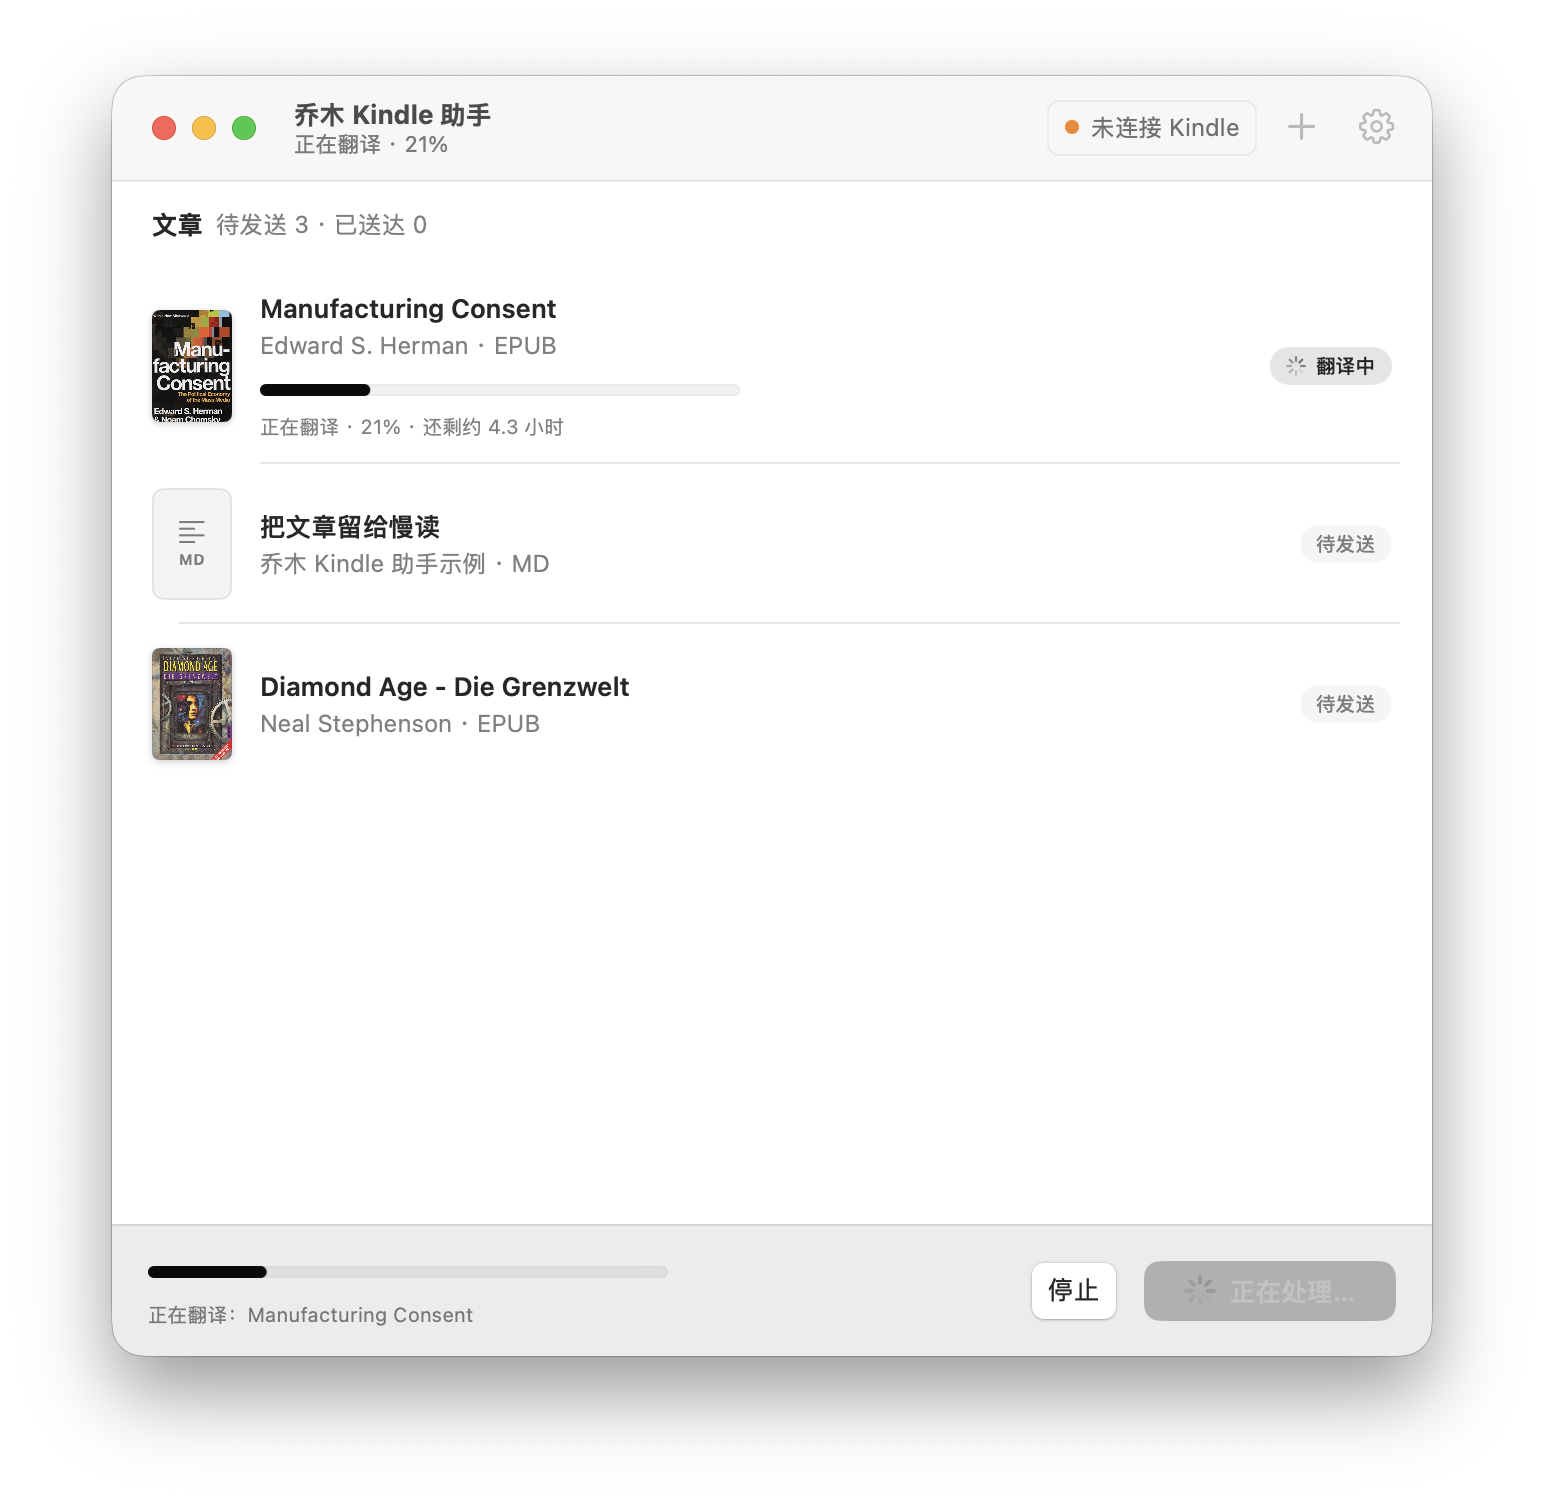
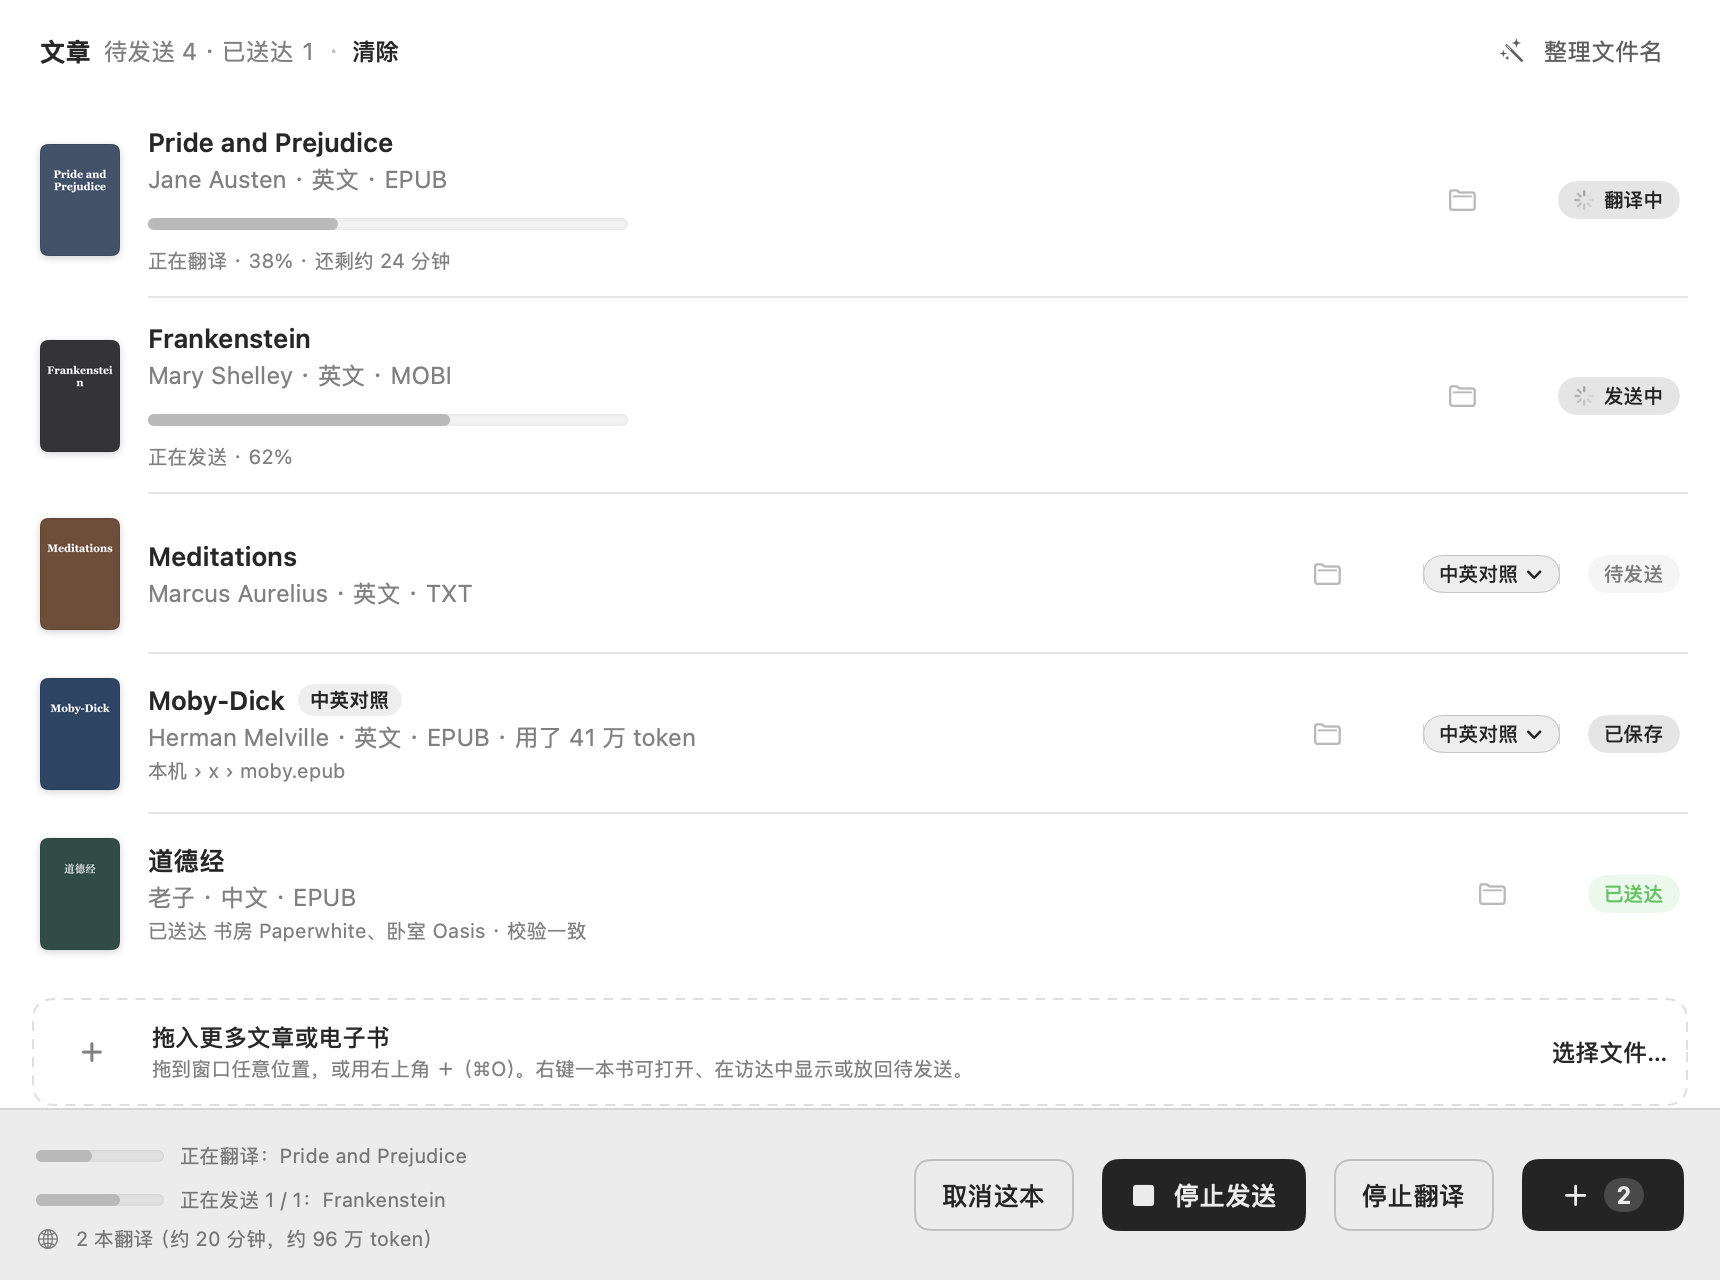
README: add an interface tour; fix the repeated language note

Changed region(s): [[0.0, 0.0312, 0.9948, 1.0], [0.8705, 0.0312, 0.9637, 0.0938], [0.6839, 0.0625, 0.8083, 0.0938]]

diff --git a/mac-app/Sources/KindlePush/Views/TranslationSettingsView.swift b/mac-app/Sources/KindlePush/Views/TranslationSettingsView.swift
@@ -121,11 +121,12 @@ struct TranslationSettingsView: View {
 
     private var languageNote: String {
         let name = Lang.name(store.targetLanguage)
-        let rule = t("拖入的书会在本机识别语言。不是\(name)的书会问你要不要翻译成\(name)；每本书行尾的标签都能改成任意语言，这里只是偏好。")
+        let rule = t("拖入的书会在本机识别语言。")
         let choice = store.foreignDefault == .ask
-            ? t("选了默认处理方式后，拖入时直接标好，不再在列表上方询问。")
-            : t("拖入时直接标为「\(t(store.foreignDefault.title))」；每本书行尾的标签仍可单独修改。")
-        return [rule, choice, t("改动立即生效。")].filter { !$0.isEmpty }.joined(separator: I18n.sentenceGap)
+            ? t("不是\(name)的书会在列表上方问你要不要翻译成\(name)；选了默认处理方式，就在拖入时直接标好。")
+            : t("不是\(name)的书拖入时直接标为「\(t(store.foreignDefault.title))」。")
+        let tag = t("每本书行尾的标签都能单独改，包括翻成哪种语言。")
+        return [rule, choice, tag, t("改动立即生效。")].filter { !$0.isEmpty }.joined(separator: I18n.sentenceGap)
     }
 
     private var qualityForm: some View {

diff --git a/README.md b/README.md
@@ -30,6 +30,27 @@
 - **简单的模型设置**：选服务、填 Key（或登录），再从自动读取的模型列表里选；支持 ChatGPT 账号登录、OpenRouter 和词元跳动浏览器授权。
 - **更快、更好的译文**：长章节自动拆段，默认 16 路并行（1–64 可调），费用不变；四种译文风格（自然流畅、忠实准确、文学润色、技术学术）；开译前自动整理全书人名和术语，也可以自己填术语表，各章译名统一。
 
+## 界面一览
+
+<table>
+<tr>
+<td width="50%"><img src="docs/assets/tour/kindles.png" alt="连接面板：勾选要发送的 Kindle，显示在线状态和地址"></td>
+<td width="50%"><img src="docs/assets/tour/settings-language.png" alt="设置 › 语言：偏好翻译语言、外文书默认处理方式、界面语言"></td>
+</tr>
+<tr>
+<td><b>发给几台 Kindle</b><br>连接面板里勾选，每本书发给勾选的每一台；不在线的那台之后可以单独补发。</td>
+<td><b>语言</b><br>外文书拖入时自动识别，按这里的偏好标成「中英对照」或「仅中文」；界面可选中文或英文。</td>
+</tr>
+<tr>
+<td><img src="docs/assets/tour/settings-service.png" alt="设置 › 翻译服务：选服务、填 API Key、选模型、翻译组件状态"></td>
+<td><img src="docs/assets/tour/settings-quality.png" alt="设置 › 质量与速度：译文风格、术语表、同时翻译几路"></td>
+</tr>
+<tr>
+<td><b>翻译服务</b><br>选服务、填 Key，模型列表自动读取。Key 存在 macOS 钥匙串。</td>
+<td><b>质量与速度</b><br>四种译文风格、自填术语表，长章节拆段并行翻译。</td>
+</tr>
+</table>
+
 ## 使用条件
 
 | 项目 | 要求 |
@@ -117,6 +138,8 @@ python3 -m unittest discover -s wifi-push -p 'test_*.py' -v
 - [bilingual_book_maker](https://github.com/yihong0618/bilingual_book_maker)：EPUB 双语翻译（隔离安装固定版本 1.3.2）。
 
 ## English
+
+<p align="center"><img src="docs/assets/tour/main-en.png" width="720" alt="Kindle Push in English: books translating, sending and delivered"></p>
 
 This fork of [chasepal/kindle-push-macos](https://github.com/chasepal/kindle-push-macos) adds bilingual EPUB translation using `bilingual_book_maker` 1.3.2. Drag in an EPUB: its language is detected locally, and a foreign book can become a side-by-side edition or a translation only, in any of 20 languages. Preview three body paragraphs, then translate the complete book and send it over Wi-Fi to one or several paired KOReader Kindles. The original EPUB is preserved. Failed or cancelled jobs are never automatically sent.
 

diff --git a/CHANGELOG.md b/CHANGELOG.md
@@ -4,6 +4,8 @@
 
 - 英文界面：系统语言不是中文时显示英文，也可以在设置 › 语言里选「界面语言」。错误提示、通知和进度都有英文。
 - Intel 版：Release 和官网多了 `KindlePush-Intel.dmg`，有自己的更新源。我们没有 Intel Mac，这个包只验证了架构、签名和公证，还没有实机运行过。
+- 设置 › 语言的说明不再把「每本书行尾的标签」说两遍，按选的默认方式只讲一种情况。
+- README 加了「界面一览」：连接面板和三页设置的截图；英文部分配了英文界面截图。
 - 还是中文的部分：Kindle 上的「我的文章」文件夹、本机的「Kindle推送/已转换」文件夹，以及译本文件名里的「中英对照」。
 
 ## 1.16.0
